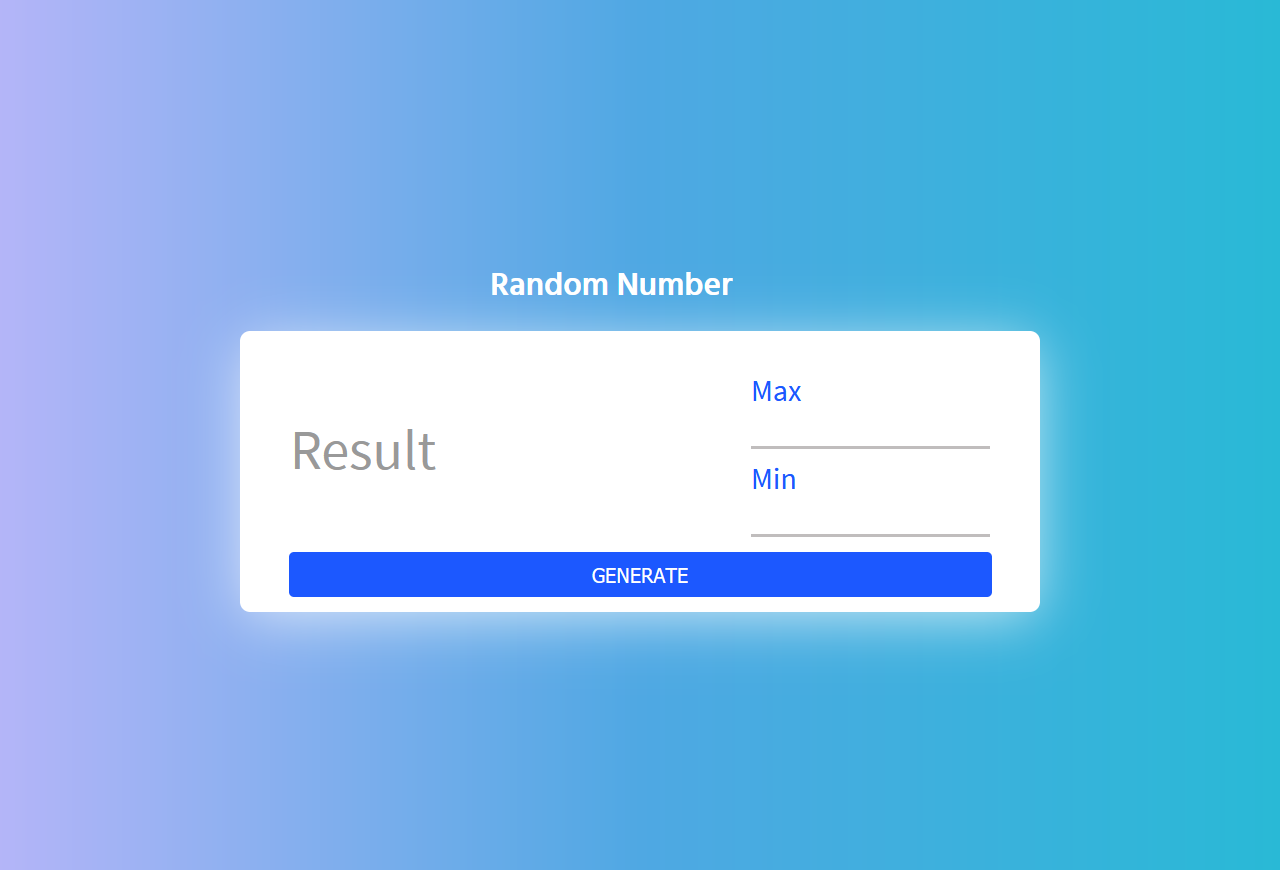
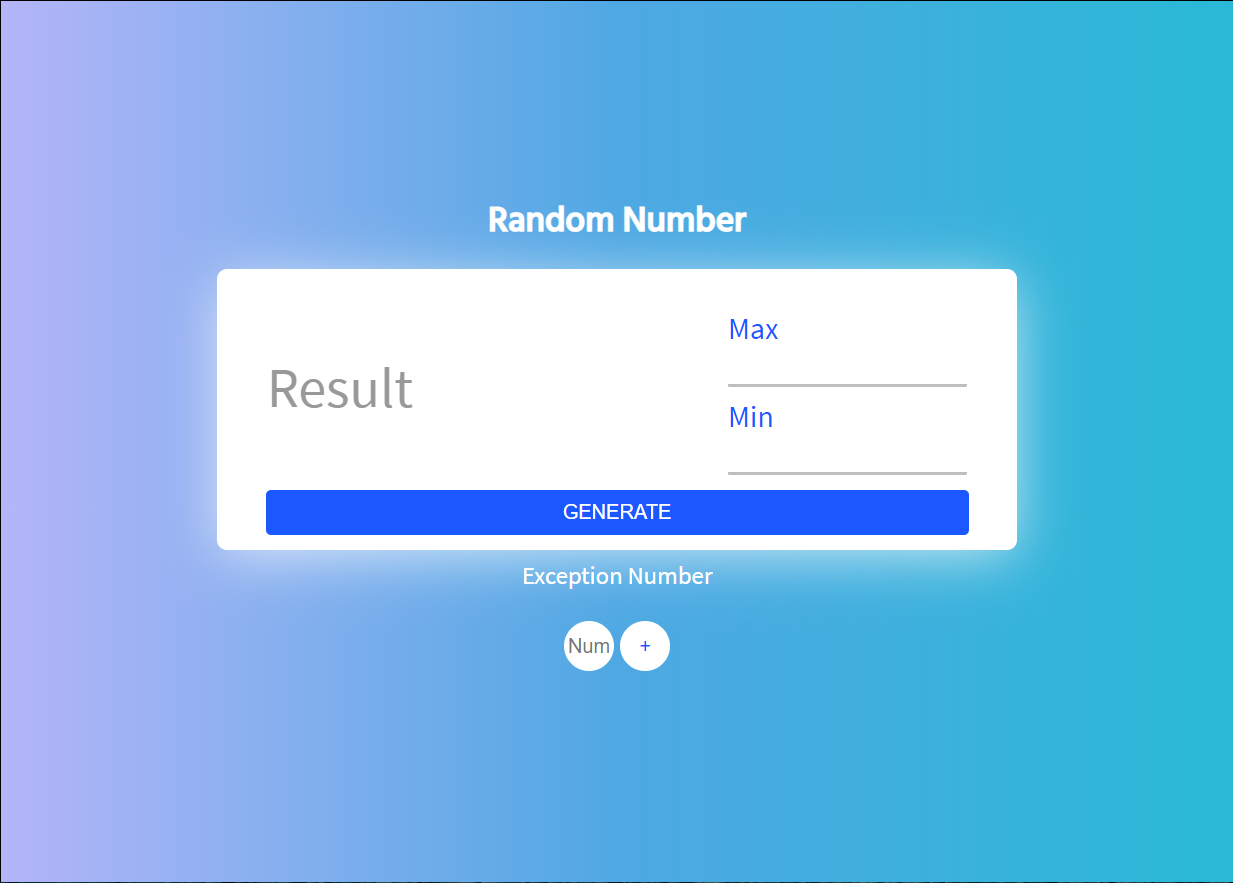
update README.md

Changed region(s): [[0.1541, 0.2172, 0.8629, 0.7759], [0.0, 0.9931, 1.0, 1.0]]

diff --git a/README.md b/README.md
@@ -5,7 +5,8 @@ Fork by [MASTER0811](https://github.com/MASTER0811/Google-Random)
 Random Number  
 URL: https://banahaker.github.io/Random/  
 ## Change
-Optimize original responsive design
+1.Optimize original responsive design  
+2.add new tool:  exception number exclude  
 
 ![random](random.png)
 
